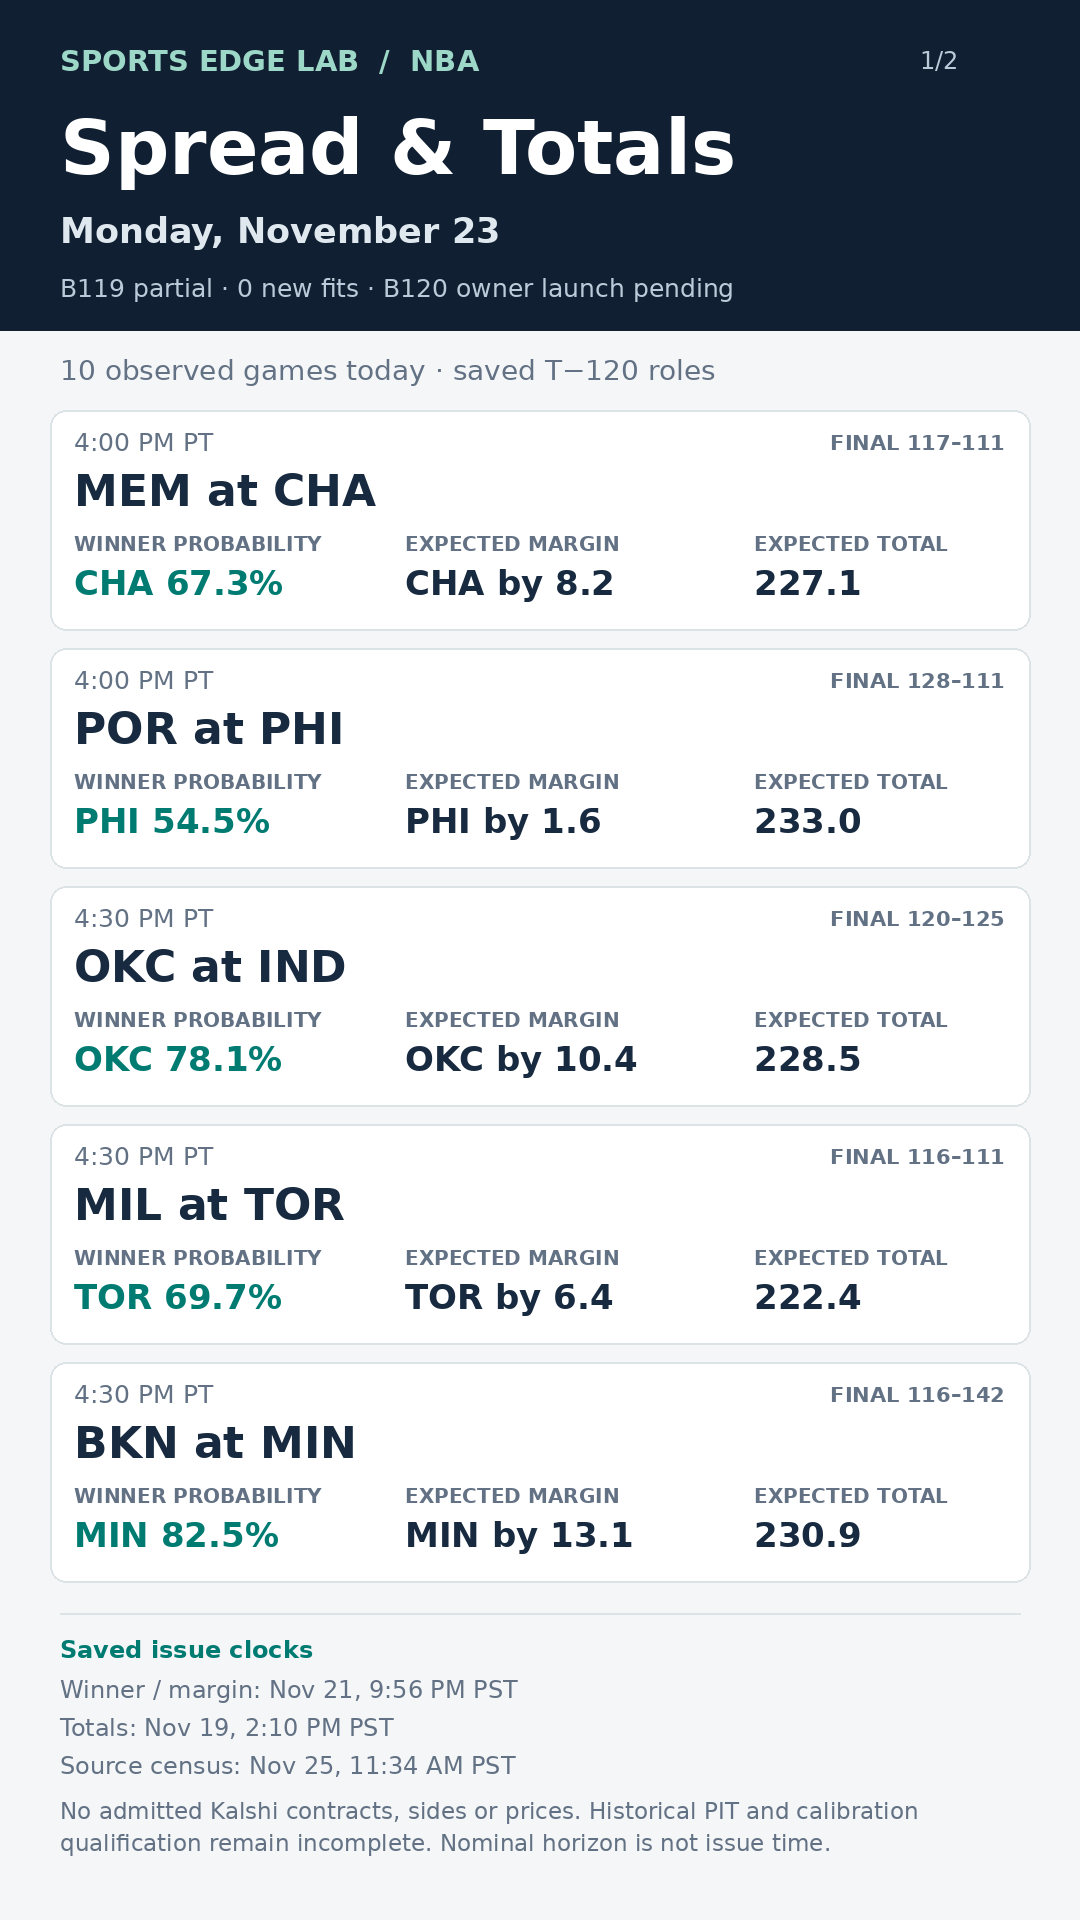
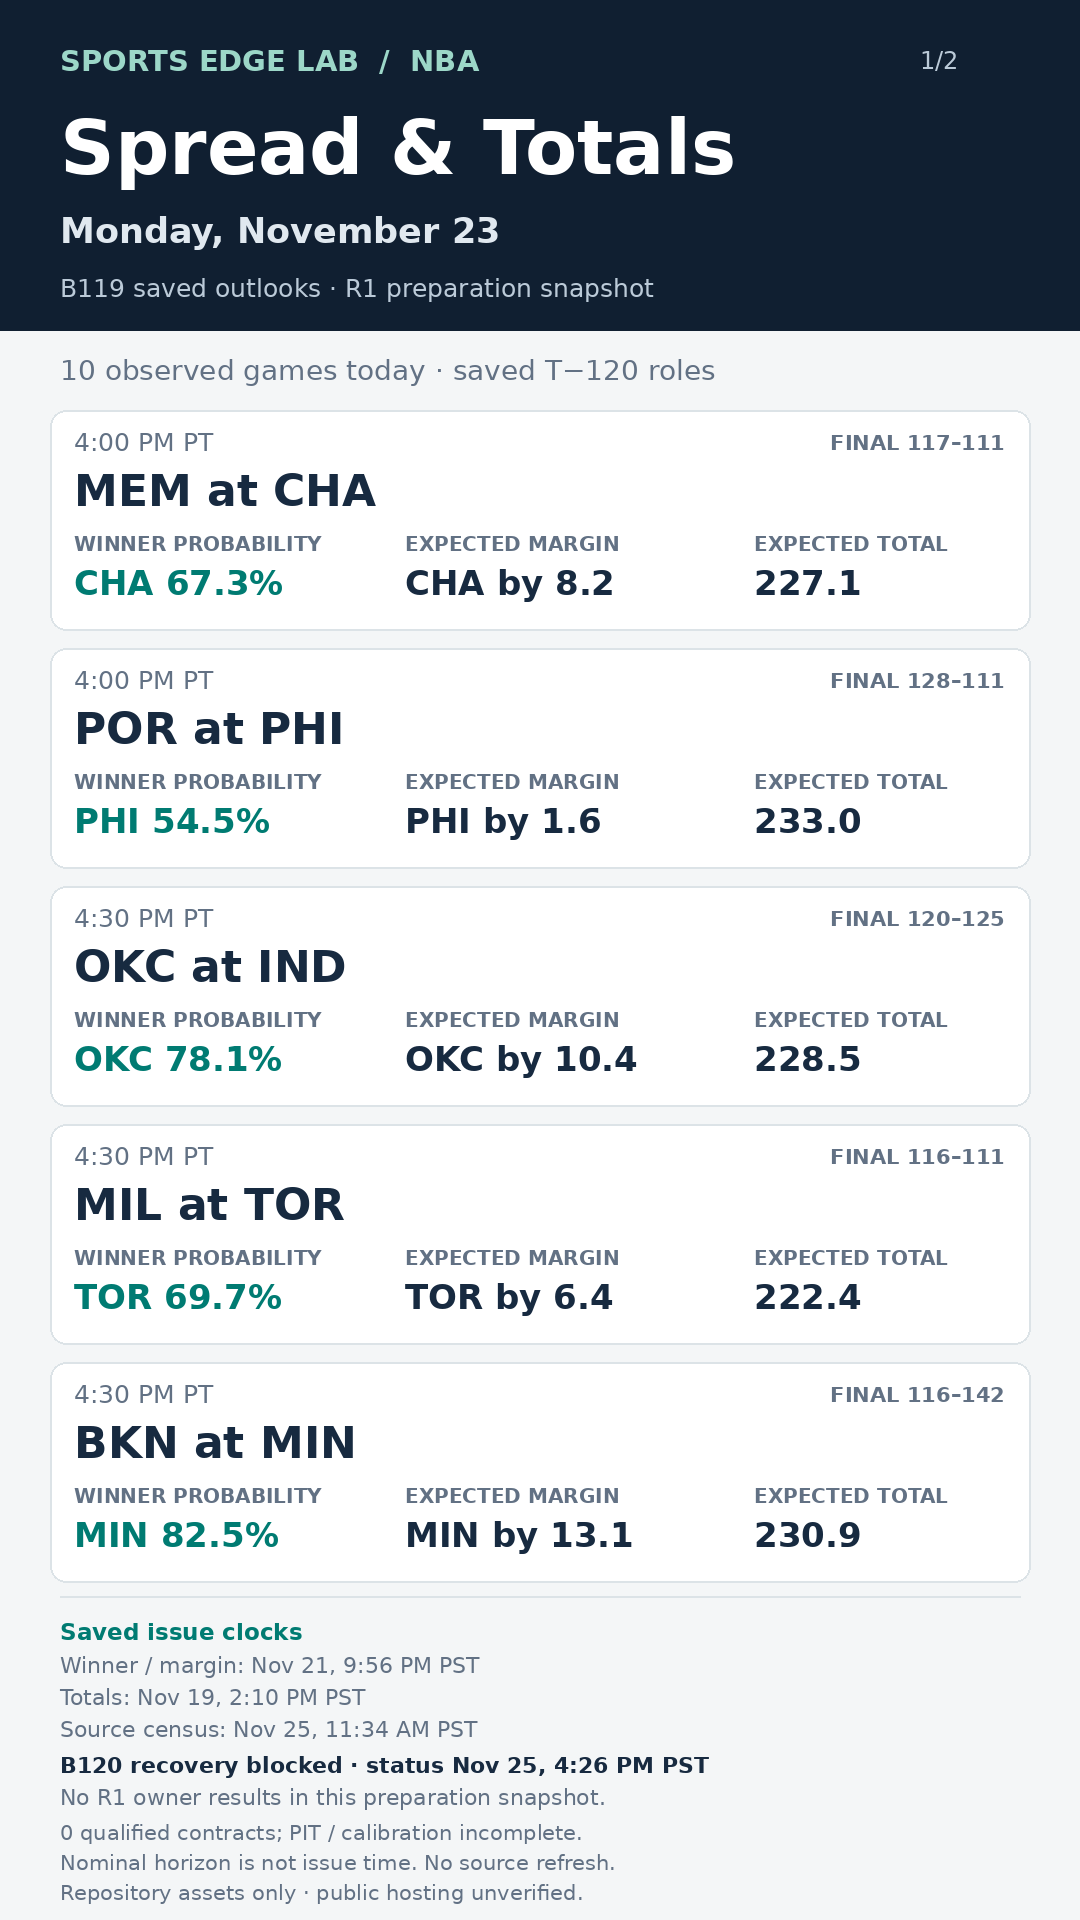
NBA: preserve saved outlook status in R1 preparation graphics
Replace the stale B120 launch-pending caption with dated recovery status and stable R1 preparation-snapshot wording. Regenerate the 12 phone graphics without changing forecasts, issue clocks, board data, HTML, or other tracks.

Changed region(s): [[0.0611, 0.8438, 0.825, 1.0], [0.1222, 0.125, 0.6722, 0.1562]]

diff --git a/examples/nba_branch/build_spread_totals_graphics.py b/examples/nba_branch/build_spread_totals_graphics.py
@@ -24,6 +24,9 @@ def font(size, bold=False):
 
 
 def text(d, xy, value, size=30, color=INK, bold=False):
+    bounds = d.textbbox(xy, str(value), font=font(size, bold))
+    if bounds[0] < 0 or bounds[1] < 0 or bounds[2] > 1080 or bounds[3] > 1920:
+        raise ValueError("Text would clip the phone graphic: " + str(value))
     d.text(xy, str(value), font=font(size, bold), fill=color)
 
 
@@ -62,7 +65,7 @@ def canvas(subtitle, index=None):
     text(d, (60, 44), "SPORTS EDGE LAB  /  NBA", 29, "#9cd7c8", True)
     text(d, (60, 103), "Spread & Totals", 76, "#ffffff", True)
     text(d, (60, 210), subtitle, 35, "#e0e8ef", True)
-    text(d, (60, 273), "B119 partial · 0 new fits · B120 owner launch pending", 25, "#bbcad8")
+    text(d, (60, 273), "B119 saved outlooks · R1 preparation snapshot", 25, "#bbcad8")
     if index:
         text(d, (920, 46), index, 24, "#bbcad8")
     return img, d
@@ -115,13 +118,17 @@ def main():
             for g in selected:
                 draw_game(d, g, y)
                 y += 238
-            footer_y = 1635
+            footer_y = 1618
             d.line((60, footer_y - 22, 1020, footer_y - 22), fill=LINE, width=2)
-            text(d, (60, footer_y), "Saved issue clocks", 24, TEAL, True)
-            text(d, (60, footer_y + 40), "Winner / margin: " + issue_summary(selected, "winner"), 24, MUTED)
-            text(d, (60, footer_y + 78), "Totals: " + issue_summary(selected, "total"), 24, MUTED)
-            text(d, (60, footer_y + 116), "Source census: " + clock(data["source_observed_at_utc"]), 24, MUTED)
-            paragraph(d, (60, footer_y + 162), "No admitted Kalshi contracts, sides or prices. Historical PIT and calibration qualification remain incomplete. Nominal horizon is not issue time.", 960, 23, MUTED, 32)
+            text(d, (60, footer_y), "Saved issue clocks", 23, TEAL, True)
+            text(d, (60, footer_y + 34), "Winner / margin: " + issue_summary(selected, "winner"), 22, MUTED)
+            text(d, (60, footer_y + 66), "Totals: " + issue_summary(selected, "total"), 22, MUTED)
+            text(d, (60, footer_y + 98), "Source census: " + clock(data["source_observed_at_utc"]), 22, MUTED)
+            text(d, (60, footer_y + 134), "B120 recovery blocked · status " + clock(data["owner_execution_status_asof_utc"]), 22, INK, True)
+            text(d, (60, footer_y + 166), "No R1 owner results in this preparation snapshot.", 22, MUTED)
+            text(d, (60, footer_y + 202), "0 qualified contracts; PIT / calibration incomplete.", 21, MUTED)
+            text(d, (60, footer_y + 232), "Nominal horizon is not issue time. No source refresh.", 21, MUTED)
+            text(d, (60, footer_y + 262), "Repository assets only · public hosting unverified.", 21, MUTED)
             p = OUT / f"nba_{date}_page_{i+1:02d}.png"
             img.save(p, optimize=True)
             outputs.append({"file": p.name, "game_ids": [g["game_id"] for g in selected], "width": 1080, "height": 1920, "sha256": hashlib.sha256(p.read_bytes()).hexdigest()})
@@ -134,12 +141,17 @@ def main():
     paragraph(d,(60,1070),"Equal annual weights select the displayed log-loss winner and RMSE point roles. Previously inspected 2026–27 results are report-only; no production promotion is claimed.",960,29,MUTED,43)
     text(d,(60,1275),"Know the two clocks",35,INK,True)
     paragraph(d,(60,1330),"Nov 25 onward winner and margin issues were saved Nov 25 at 11:40 AM PST. Totals retain their Nov 19, 2:10 PM PST outlook. Miami at Cleveland on Nov 29 has no matching saved total issue.",960,29,MUTED,43)
-    paragraph(d,(60,1560),"Source census: Nov 25, 11:34 AM PST. B119 preserved a partial return after 2,140 publication-task failures (1,200 frontier + 940 legacy) and 0 new fits. B120 owner launch is pending. Historical PIT and calibration qualification remain incomplete.",960,27,MUTED,40)
-    text(d,(60,1818),"NBA Spread & Totals · analytical research",28,TEAL,True)
+    text(d,(60,1555),"B120 recovery blocked · recorded checkpoint",27,INK,True)
+    text(d,(60,1596),"Status as of " + clock(data["owner_execution_status_asof_utc"]),23,MUTED)
+    text(d,(60,1633),"No R1 owner results in this preparation snapshot.",25,TEAL,True)
+    paragraph(d,(60,1680),"B119 partial: 2,140 publication-task failures (1,200 frontier + 940 legacy); 0 new fits. Saved forecasts remain unchanged.",960,25,MUTED,35)
+    text(d,(60,1762),"Source census: " + clock(data["source_observed_at_utc"]),23,MUTED)
+    text(d,(60,1806),"PIT / calibration incomplete; no admitted sides or prices.",23,MUTED)
+    text(d,(60,1860),"Repository assets only · public hosting unverified.",23,TEAL,True)
     p=OUT/'nba_2026-11-23_week_overview.png';img.save(p,optimize=True)
     outputs.insert(0,{"file":p.name,"game_ids":[],"width":1080,"height":1920,"sha256":hashlib.sha256(p.read_bytes()).hexdigest()})
     assert sorted(gid for r in outputs for gid in r["game_ids"]) == sorted(g["game_id"] for g in week)
-    (OUT/'manifest.json').write_text(json.dumps({"schema":"public.nba.phone_graphics.v1","source_projection_sha256":hashlib.sha256(DATA.read_bytes()).hexdigest(),"games":48,"images":outputs},indent=2)+'\n')
+    (OUT/'manifest.json').write_text(json.dumps({"schema":"public.nba.phone_graphics.v1","source_projection_sha256":hashlib.sha256(DATA.read_bytes()).hexdigest(),"games":48,"images":outputs,"snapshot_label":"B119 saved outlooks · R1 preparation snapshot","owner_status_asof_utc":data["owner_execution_status_asof_utc"],"owner_status":"B120 recovery blocked at recorded checkpoint","R1_owner_results_included":False,"forecasts_changed_by_graphics_generation":False,"publication_status":"Repository assets only; public hosting unverified"},indent=2)+'\n')
     print(json.dumps({"images":len(outputs),"covered_games":48,"bytes":sum(p.stat().st_size for p in OUT.glob('*.png'))}))
 
 
